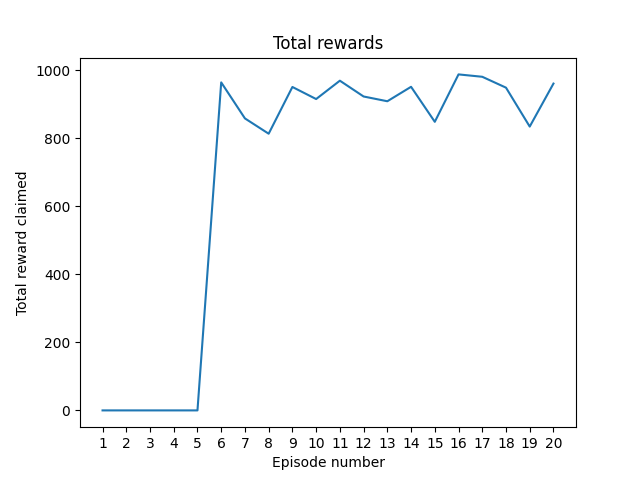
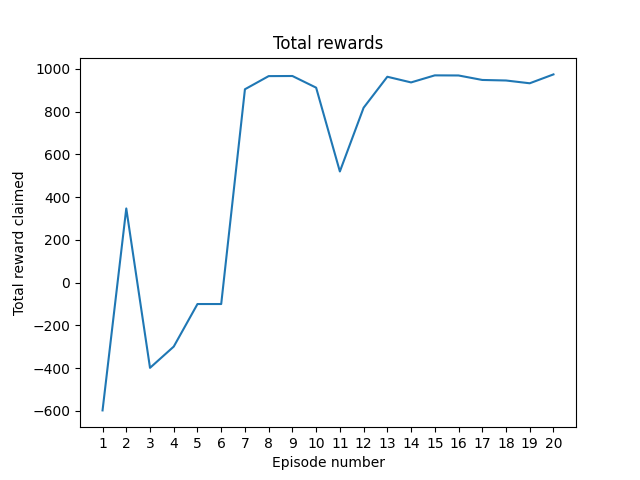
Fixed resulting total values for evaluation

diff --git a/walkingAgent.py b/walkingAgent.py
@@ -25,6 +25,7 @@ class sim:
         self.x=0
         self.y=0
         self.win=(max_x,max_y)
+        self.won=False
         self.total_rewards=np.zeros((numepisode),dtype=float)
         self.numsteps2win=np.zeros((numepisode),dtype=int)
         self.gridmatrix[0][0]=-1
@@ -48,6 +49,7 @@ class sim:
         totalreward=0
         endgame=False
         self.trap=False
+        self.won=False
         totalreward=0
         while (timestep<self.maxstep and endgame!=True):
             if(simtype==0):
@@ -74,10 +76,14 @@ class sim:
                 new_state=new_state,reward=reward,action=action)
                 if(self.gridmatrix[self.win[1]-1][self.win[0]-1]==-1):
                     endgame=True
+                    self.won=True
                     print("WINNER\n\n\n\n\n\n\n")
                     self.numsteps2win[i]=timestep
                     self.total_rewards[i]=totalreward
                     self.gridmatrix[self.win[1]-1][self.win[0]-1]=0
+        if(self.won==False):
+            self.numsteps2win[i]=timestep
+            self.total_rewards[i]=totalreward
         self.print_grid()
         if(self.trap==False):
             self.gridmatrix[self.y][self.x]=0
